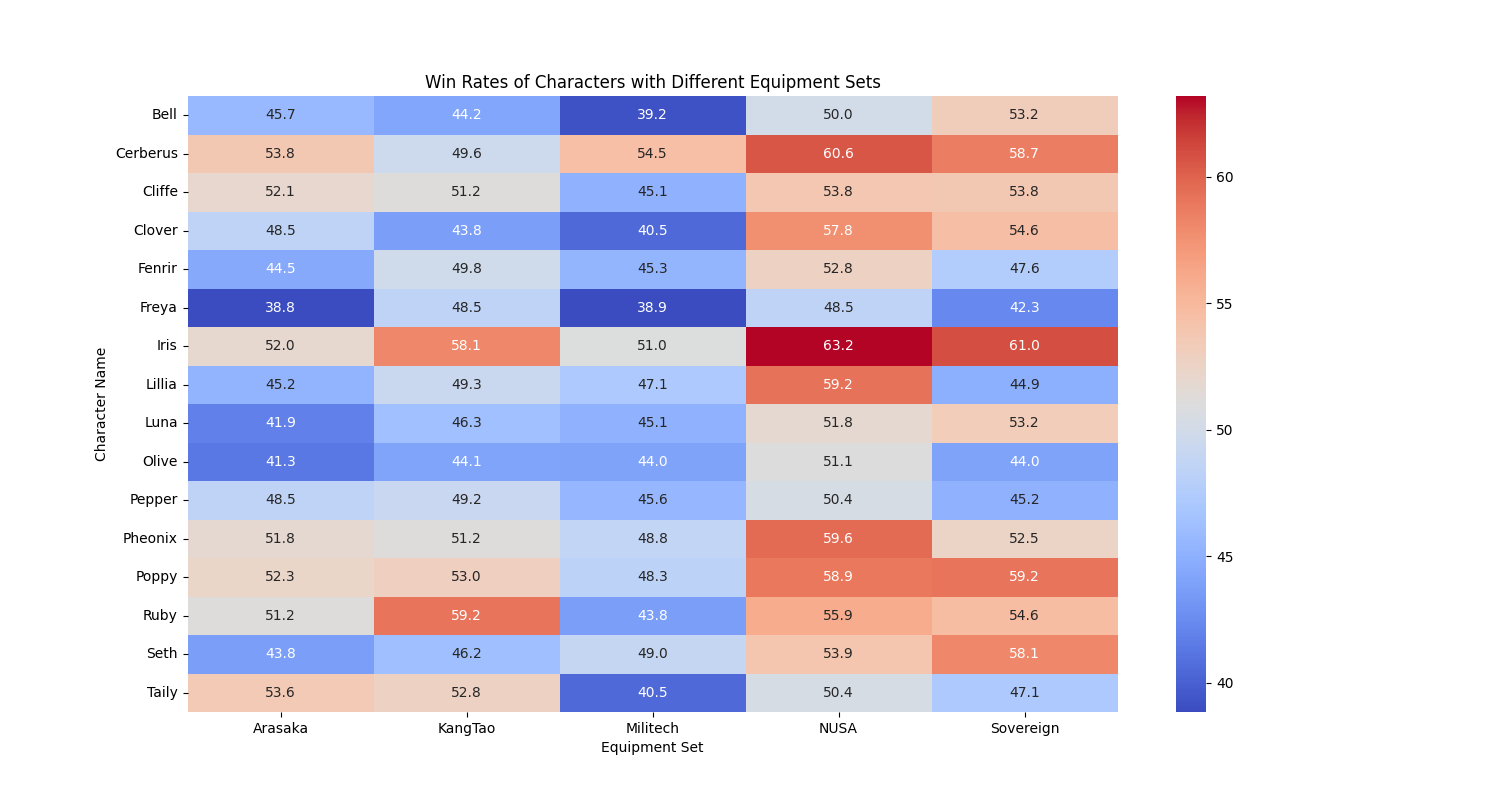
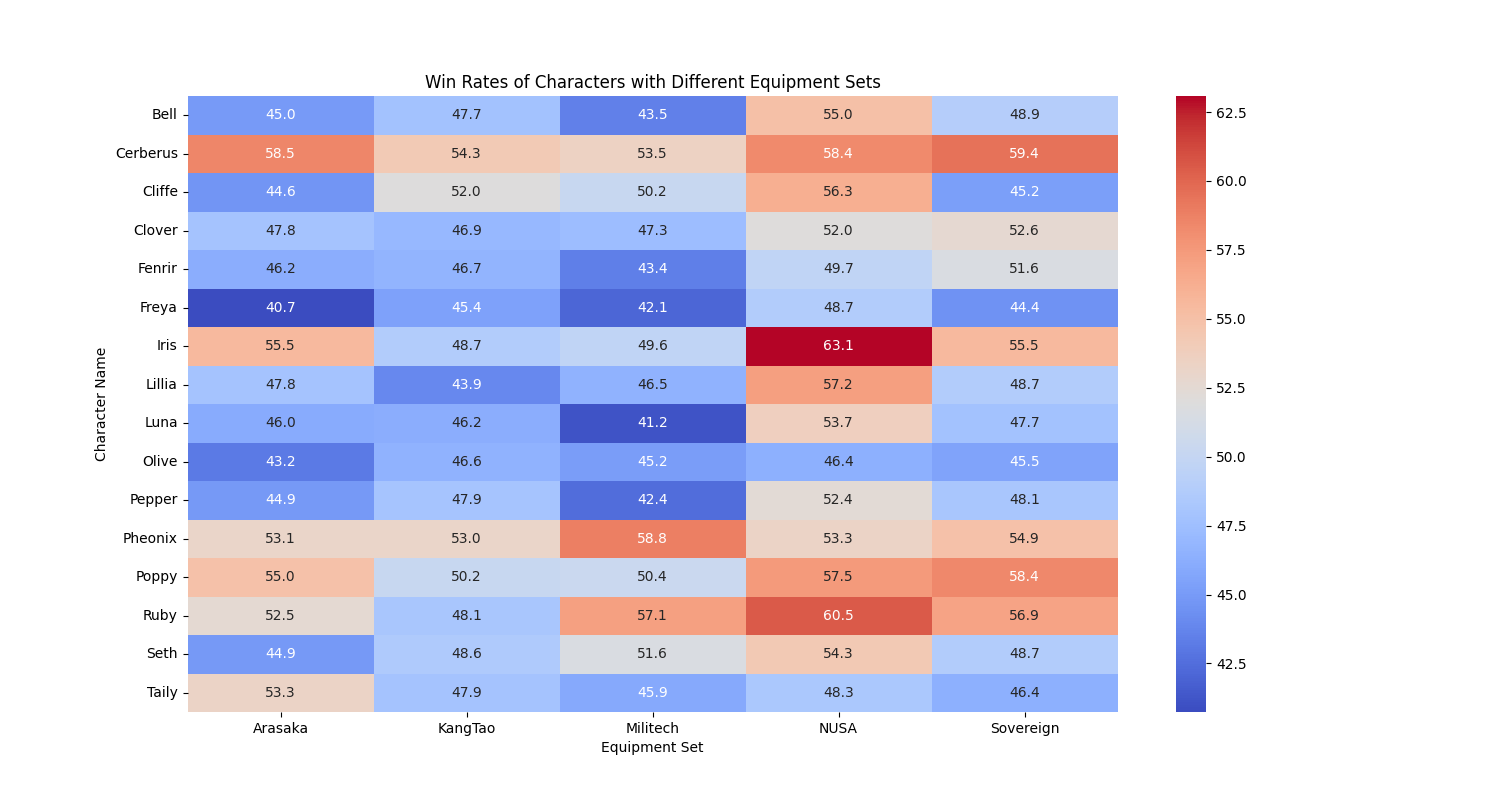
📝 🩹

diff --git a/battle_simulator.py b/battle_simulator.py
@@ -11,10 +11,11 @@ text_box = None
 # 1. Add attributes to character to get info on damage dealt and healing done # Too difficult to implement, abandoning...Done
 # 2. Create graph to show damage dealt and healing done # Ignored
 # 3. Add equipment set effect # Implementing...Done
-# 4. Redesign UI, the location of the buttons are not good # Waiting...Delayed...Partially Done...
+# 4. Redesign UI, the location of the buttons are not good # Waiting...Delayed...Partially Done...Delayed
 # 5. Add 'Guard' attribute as a counter to 'Penetration', equipment should have 'Guard' attribute # Waiting...Delayed
+# Reason: We will add this when damage is becoming uncontrollablly high, due to inflation of stats and effects.
 # 6. Equipment should have level attribute, allow scaling with characters. Minimum level is 1, maximum level is 1000. # Implementing...Done
-# 7. Design web UI instead of pygame # Searching for a good framework...
+# 7. Design web UI instead of pygame # Searching for a good framework...React...Delayed
 
 #--------------------------------------------------------- 
 #---------------------------------------------------------
@@ -320,7 +321,8 @@ if __name__ == "__main__":
     label_party2 = [label6, label7, label8, label9, label10]
 
     # Some buttons
-    # ==========================
+    #  =====================================
+
     button1 = pygame_gui.elements.UIButton(relative_rect=pygame.Rect((100, 300), (156, 50)),
                                         text='Shuffle Party',
                                         manager=ui_manager,
@@ -346,59 +348,77 @@ if __name__ == "__main__":
                                         manager=ui_manager,
                                         tool_tip_text = "Quit")
 
+    # =====================================
+    # Character
+    # =====================================
+
     character_selection_menu = pygame_gui.elements.UIDropDownMenu(["Option 1", "Option 2", "Option 3", "Option 4", "Option 5"],
                                                             "Option 1",
-                                                            pygame.Rect((900, 300), (156, 35)),
+                                                            pygame.Rect((880, 300), (156, 35)),
                                                             ui_manager)
 
     reserve_character_selection_menu = pygame_gui.elements.UIDropDownMenu(["Option1"],
                                                             "Option1",
-                                                            pygame.Rect((900, 340), (156, 35)),
+                                                            pygame.Rect((880, 340), (156, 35)),
                                                             ui_manager)
 
-    character_replace_button = pygame_gui.elements.UIButton(relative_rect=pygame.Rect((900, 380), (156, 35)),
+    character_replace_button = pygame_gui.elements.UIButton(relative_rect=pygame.Rect((880, 380), (156, 35)),
                                         text='Replace',
                                         manager=ui_manager,
                                         tool_tip_text = "Replace selected character with reserve character")
 
-    levelup_button = pygame_gui.elements.UIButton(relative_rect=pygame.Rect((900, 420), (76, 35)),
+    levelup_button = pygame_gui.elements.UIButton(relative_rect=pygame.Rect((880, 420), (76, 35)),
                                         text='Lv +',
                                         manager=ui_manager,
                                         tool_tip_text = "Level up selected character")
 
-    leveldown_button = pygame_gui.elements.UIButton(relative_rect=pygame.Rect((978, 420), (76, 35)),
+    leveldown_button = pygame_gui.elements.UIButton(relative_rect=pygame.Rect((958, 420), (76, 35)),
                                         text='Lv -',
                                         manager=ui_manager,
                                         tool_tip_text = "Level down selected character")
     
+    # =====================================
+    # Item
+    # =====================================
+
     eq_rarity_list, eq_types_list, eq_set_list = Equip("Foo", "Weapon", "Common").get_raritytypeeqset_list()
 
     eq_selection_menu = pygame_gui.elements.UIDropDownMenu(eq_types_list,
                                                             eq_types_list[0],
-                                                            pygame.Rect((900, 470), (156, 35)),
+                                                            pygame.Rect((880, 470), (156, 35)),
                                                             ui_manager)
 
-    eq_reroll_button = pygame_gui.elements.UIButton(relative_rect=pygame.Rect((900, 510), (78, 35)),
-                                        text='Reroll',
+    eq_rarity_selection_menu = pygame_gui.elements.UIDropDownMenu(["random"] + eq_rarity_list,
+                                                            "random",
+                                                            pygame.Rect((1040, 470), (156, 35)),
+                                                            ui_manager)
+
+    eq_set_list_selection_menu = pygame_gui.elements.UIDropDownMenu(["random"] + eq_set_list,
+                                                            "random",
+                                                            pygame.Rect((1040, 510), (156, 35)),
+                                                            ui_manager)
+
+    eq_reroll_button = pygame_gui.elements.UIButton(relative_rect=pygame.Rect((1040, 550), (156, 35)),
+                                        text='Generate',
                                         manager=ui_manager,
                                         tool_tip_text = "Reroll item")
 
-    eq_upgrade_button = pygame_gui.elements.UIButton(relative_rect=pygame.Rect((980, 510), (37, 35)),
-                                        text='+',
+    eq_upgrade_button = pygame_gui.elements.UIButton(relative_rect=pygame.Rect((880, 510), (76, 35)),
+                                        text='Star +',
                                         manager=ui_manager,
                                         tool_tip_text = "Upgrade stars for item")
 
-    eq_downgrade_button = pygame_gui.elements.UIButton(relative_rect=pygame.Rect((1017, 510), (37, 35)),
-                                            text='-',
+    eq_downgrade_button = pygame_gui.elements.UIButton(relative_rect=pygame.Rect((958, 510), (76, 35)),
+                                            text='Star -',
                                             manager=ui_manager,
                                             tool_tip_text = "Downgrade stars for item")
 
-    eq_levelup_button = pygame_gui.elements.UIButton(relative_rect=pygame.Rect((900, 550), (76, 35)),
+    eq_levelup_button = pygame_gui.elements.UIButton(relative_rect=pygame.Rect((880, 550), (76, 35)),
                                         text='Lv +',
                                         manager=ui_manager,
                                         tool_tip_text = "Level up selected item for selected character")
 
-    eq_leveldown_button = pygame_gui.elements.UIButton(relative_rect=pygame.Rect((978, 550), (76, 35)),
+    eq_leveldown_button = pygame_gui.elements.UIButton(relative_rect=pygame.Rect((958, 550), (76, 35)),
                                         text='Lv -',
                                         manager=ui_manager,
                                         tool_tip_text = "Level down selected item for selected character")
@@ -554,13 +574,13 @@ if __name__ == "__main__":
         character_selection_menu.kill()
         character_selection_menu = pygame_gui.elements.UIDropDownMenu([character.name for character in party1] + [character.name for character in party2],
                                                                 party1[0].name,
-                                                                pygame.Rect((900, 300), (156, 35)),
+                                                                pygame.Rect((880, 300), (156, 35)),
                                                                 ui_manager)
 
         reserve_character_selection_menu.kill()
         reserve_character_selection_menu = pygame_gui.elements.UIDropDownMenu([character.name for character in remaining_characters],
                                                                 remaining_characters[0].name,
-                                                                pygame.Rect((900, 340), (156, 35)),
+                                                                pygame.Rect((880, 340), (156, 35)),
                                                                 ui_manager)
 
         redraw_ui(party1, party2)
@@ -586,7 +606,7 @@ if __name__ == "__main__":
         character_selection_menu.kill()
         character_selection_menu = pygame_gui.elements.UIDropDownMenu([character.name for character in party1] + [character.name for character in party2],
                                                                 party1[0].name,
-                                                                pygame.Rect((900, 300), (156, 35)),
+                                                                pygame.Rect((880, 300), (156, 35)),
                                                                 ui_manager)
 
         remaining_characters = [character for character in all_characters if character not in party1 and character not in party2]
@@ -594,7 +614,7 @@ if __name__ == "__main__":
         reserve_character_selection_menu.kill()
         reserve_character_selection_menu = pygame_gui.elements.UIDropDownMenu([character.name for character in remaining_characters],
                                                                 remaining_characters[0].name,
-                                                                pygame.Rect((900, 340), (156, 35)),
+                                                                pygame.Rect((880, 340), (156, 35)),
                                                                 ui_manager)
         redraw_ui(party1, party2)
         reset_ally_enemy_attr(party1, party2)
@@ -630,11 +650,16 @@ if __name__ == "__main__":
     def reroll_eq():
         all_characters = party1 + party2
         for character in all_characters:
+            # Because of this, we can't have two characters with the same name
             if character.name == character_selection_menu.selected_option and character.isAlive():
                 eq_to_gen = eq_selection_menu.selected_option
+                rarity_to_gen = eq_rarity_selection_menu.selected_option
+                rarity_to_gen = None if rarity_to_gen == "random" else rarity_to_gen
+                set_to_gen = eq_set_list_selection_menu.selected_option
+                set_to_gen = None if set_to_gen == "random" else set_to_gen
                 # from character.equip get the index for given eq_to_gen string
                 char_eq_index = [i for i, eq in enumerate(character.equip) if eq.type == eq_to_gen][0]
-                character.equip[char_eq_index] = generate_equips_list(locked_type=eq_to_gen, eq_level=character.lvl).pop()
+                character.equip[char_eq_index] = generate_equips_list(locked_type=eq_to_gen, eq_level=character.lvl, locked_eq_set=set_to_gen, locked_rarity=rarity_to_gen).pop()
                 text_box.append_html_text("====================================\n")
                 text_box.append_html_text(f"Rerolling {character.equip[char_eq_index].type} for {character.name}\n")
                 text_box.append_html_text(character.equip[char_eq_index].print_stats())
@@ -711,6 +736,7 @@ if __name__ == "__main__":
     text_box.append_html_text("If lower cased character_name.jpg is not found in ./image directory, error.jpg will be used instead.\n")
     text_box.append_html_text("Hover over character image to show attributes.\n")
     text_box.append_html_text("Hover over character health bar to show status effects.\n")
+    text_box.append_html_text("Hover over kkkkk icon to show item set information.\n")
     text_box.append_html_text("Hover over chopper knife icon to show item information.\n\n")
 
     # Event loop

diff --git a/equip.py b/equip.py
@@ -11,7 +11,7 @@ def normal_distribution(min_value, max_value, mean, std):
 
 class Equip:
     def __init__(self, name, type, rarity, eq_set="None", level=40):
-        # lists
+        # lists, changing them likely wont give an error.
         self.rarity_list = ["Common", "Uncommon", "Rare", "Epic", "Unique", "Legendary"]
         self.type_list = ["Weapon", "Armor", "Accessory", "Boots"]
         self.eq_set_list = ["None", "Arasaka", "KangTao", "Militech", "NUSA", "Sovereign"]
@@ -101,10 +101,10 @@ class Equip:
         rarity_values = {rarity: value for rarity, value in zip(self.rarity_list, values)}
 
         type_bonus = {
-            "Accessory": ("maxhp_extra", 200 / 40 * self.level),
-            "Weapon": ("atk_extra", 10 / 40 * self.level),
-            "Armor": ("def_extra", 10 / 40 * self.level),
-            "Boots": ("spd_extra", 10 / 40 * self.level)
+            self.type_list[2]: ("maxhp_extra", 200 / 40 * self.level),
+            self.type_list[0]: ("atk_extra", 10 / 40 * self.level),
+            self.type_list[1]: ("def_extra", 10 / 40 * self.level),
+            self.type_list[3]: ("spd_extra", 10 / 40 * self.level)
         }
 
         if self.type in type_bonus:
@@ -124,19 +124,19 @@ class Equip:
         self.level = level
         extra_lines_to_generate = self.fake_dice() - 1
         
-        if self.type == "Accessory":
+        if self.type == self.type_list[2]:
             self.maxhp_flat = max(normal_distribution(1, 3000, 1000, 500), 1)
             self.maxhp_flat /= 40
             self.maxhp_flat *= self.level
-        elif self.type == "Weapon":
+        elif self.type == self.type_list[0]:
             self.atk_flat = max(normal_distribution(1, 3000, 1000, 500) * 0.05, 1)
             self.atk_flat /= 40
             self.atk_flat *= self.level
-        elif self.type == "Armor":
+        elif self.type == self.type_list[1]:
             self.def_flat = max(normal_distribution(1, 3000, 1000, 500) * 0.05, 1)
             self.def_flat /= 40
             self.def_flat *= self.level
-        elif self.type == "Boots":
+        elif self.type == self.type_list[3]:
             self.spd_flat = max(normal_distribution(1, 3000, 1000, 500) * 0.05, 1)
             self.spd_flat /= 40
             self.spd_flat *= self.level
@@ -157,16 +157,16 @@ class Equip:
         new_level = self.level + increment
         self.level = max(min(new_level, 1000), 1)
         
-        if self.type == "Accessory":
+        if self.type == self.type_list[2]:
             self.maxhp_flat = self.maxhp_flat / prev_level # base value is divided by previous level
             self.maxhp_flat *= new_level
-        elif self.type == "Weapon":
+        elif self.type == self.type_list[0]:
             self.atk_flat = self.atk_flat / prev_level
             self.atk_flat *= new_level
-        elif self.type == "Armor":
+        elif self.type == self.type_list[1]:
             self.def_flat = self.def_flat / prev_level
             self.def_flat *= new_level
-        elif self.type == "Boots":
+        elif self.type == self.type_list[3]:
             self.spd_flat = self.spd_flat / prev_level
             self.spd_flat *= new_level
         else:

diff --git a/effect.py b/effect.py
@@ -532,9 +532,9 @@ class EquipmentSetEffect_Sovereign(Effect):
 
     def applyEffectDuringDamageStep(self, character, damage):
         # count how many "Sovereign" in character.buffs, if less than 7, apply effect.
-        if Counter([effect.name for effect in character.buffs])["Sovereign"] < 6:
+        if Counter([effect.name for effect in character.buffs])["Sovereign"] < 5:
             character.applyEffect(StatsEffect("Sovereign", 3, True, self.stats_dict))
         return damage
     
     def tooltip_description(self):
-        return f"Accumulate 1 stack of Sovereign when taking damage. Each stack increase atk by {self.stats_dict['atk']*100}% and last 3 turns. Max 5 stacks."
+        return f"Accumulate 1 stack of Sovereign when taking damage. Each stack scales atk to {self.stats_dict['atk']*100}% and last 3 turns. Max 5 stacks."

diff --git a/calculate_winrate.py b/calculate_winrate.py
@@ -173,8 +173,11 @@ def calculate_winrate_for_character(sample, fineprint_mode="default"):
                 character_and_eqset_losses.append((character.name, character.eq_set))
 
         # A simple progress bar
-        if i % (sample // 100) == 0:
-            print(f"{i / sample * 100:.2f}% done, {i} out of {sample}")
+        try:
+            if i % (sample // 100) == 0:
+                print(f"{i / sample * 100:.2f}% done, {i} out of {sample}")
+        except Exception:
+            pass
 
     print("=====================================")
     print(f"Average turns: {turns_total / sample}") # Ideal range: 55-60

diff --git a/README.md b/README.md
@@ -1,1 +1,24 @@
-# tbrbs
+# Turn based RPG battle simulator
+## Description
+This RPG Battle Simulator is designed to simulate automatic, turn-based battles between characters with diverse skill sets and item effects. In each turn, a character is selected for action based on their speed attribute through a weighted random process. The battle concludes when all members of one party are no longer alive, irrespective of any status effects.
+## Features
+- Simulate Battles: Automatically run turn-based battles between various characters.
+- Calculate Win Rates: Determine the win rate for each character under different conditions.
+- Data Analysis: Generate and analyze data on battle outcomes and character performance.
+## Installation
+```bash
+pip install -r requirements.txt
+```
+## Usage
+### Launching the Simulator:
+To launch a simple Pygame GUI for the battle simulator, run:
+```bash
+python battle_simulator.py 
+```
+### Calculating Winrate:
+To calculate the winrate for each character with different item sets and save the data to win_loss_data.csv, use the following command. Replace [sample] with the number of samples you want to run:
+```bash
+python calculate_winrate.py [sample]
+```
+### Generating Reports:
+If Pandas, Matplotlib, and Seaborn are installed, performance.txt and heatmap.png will be generated in the ./reports directory.
